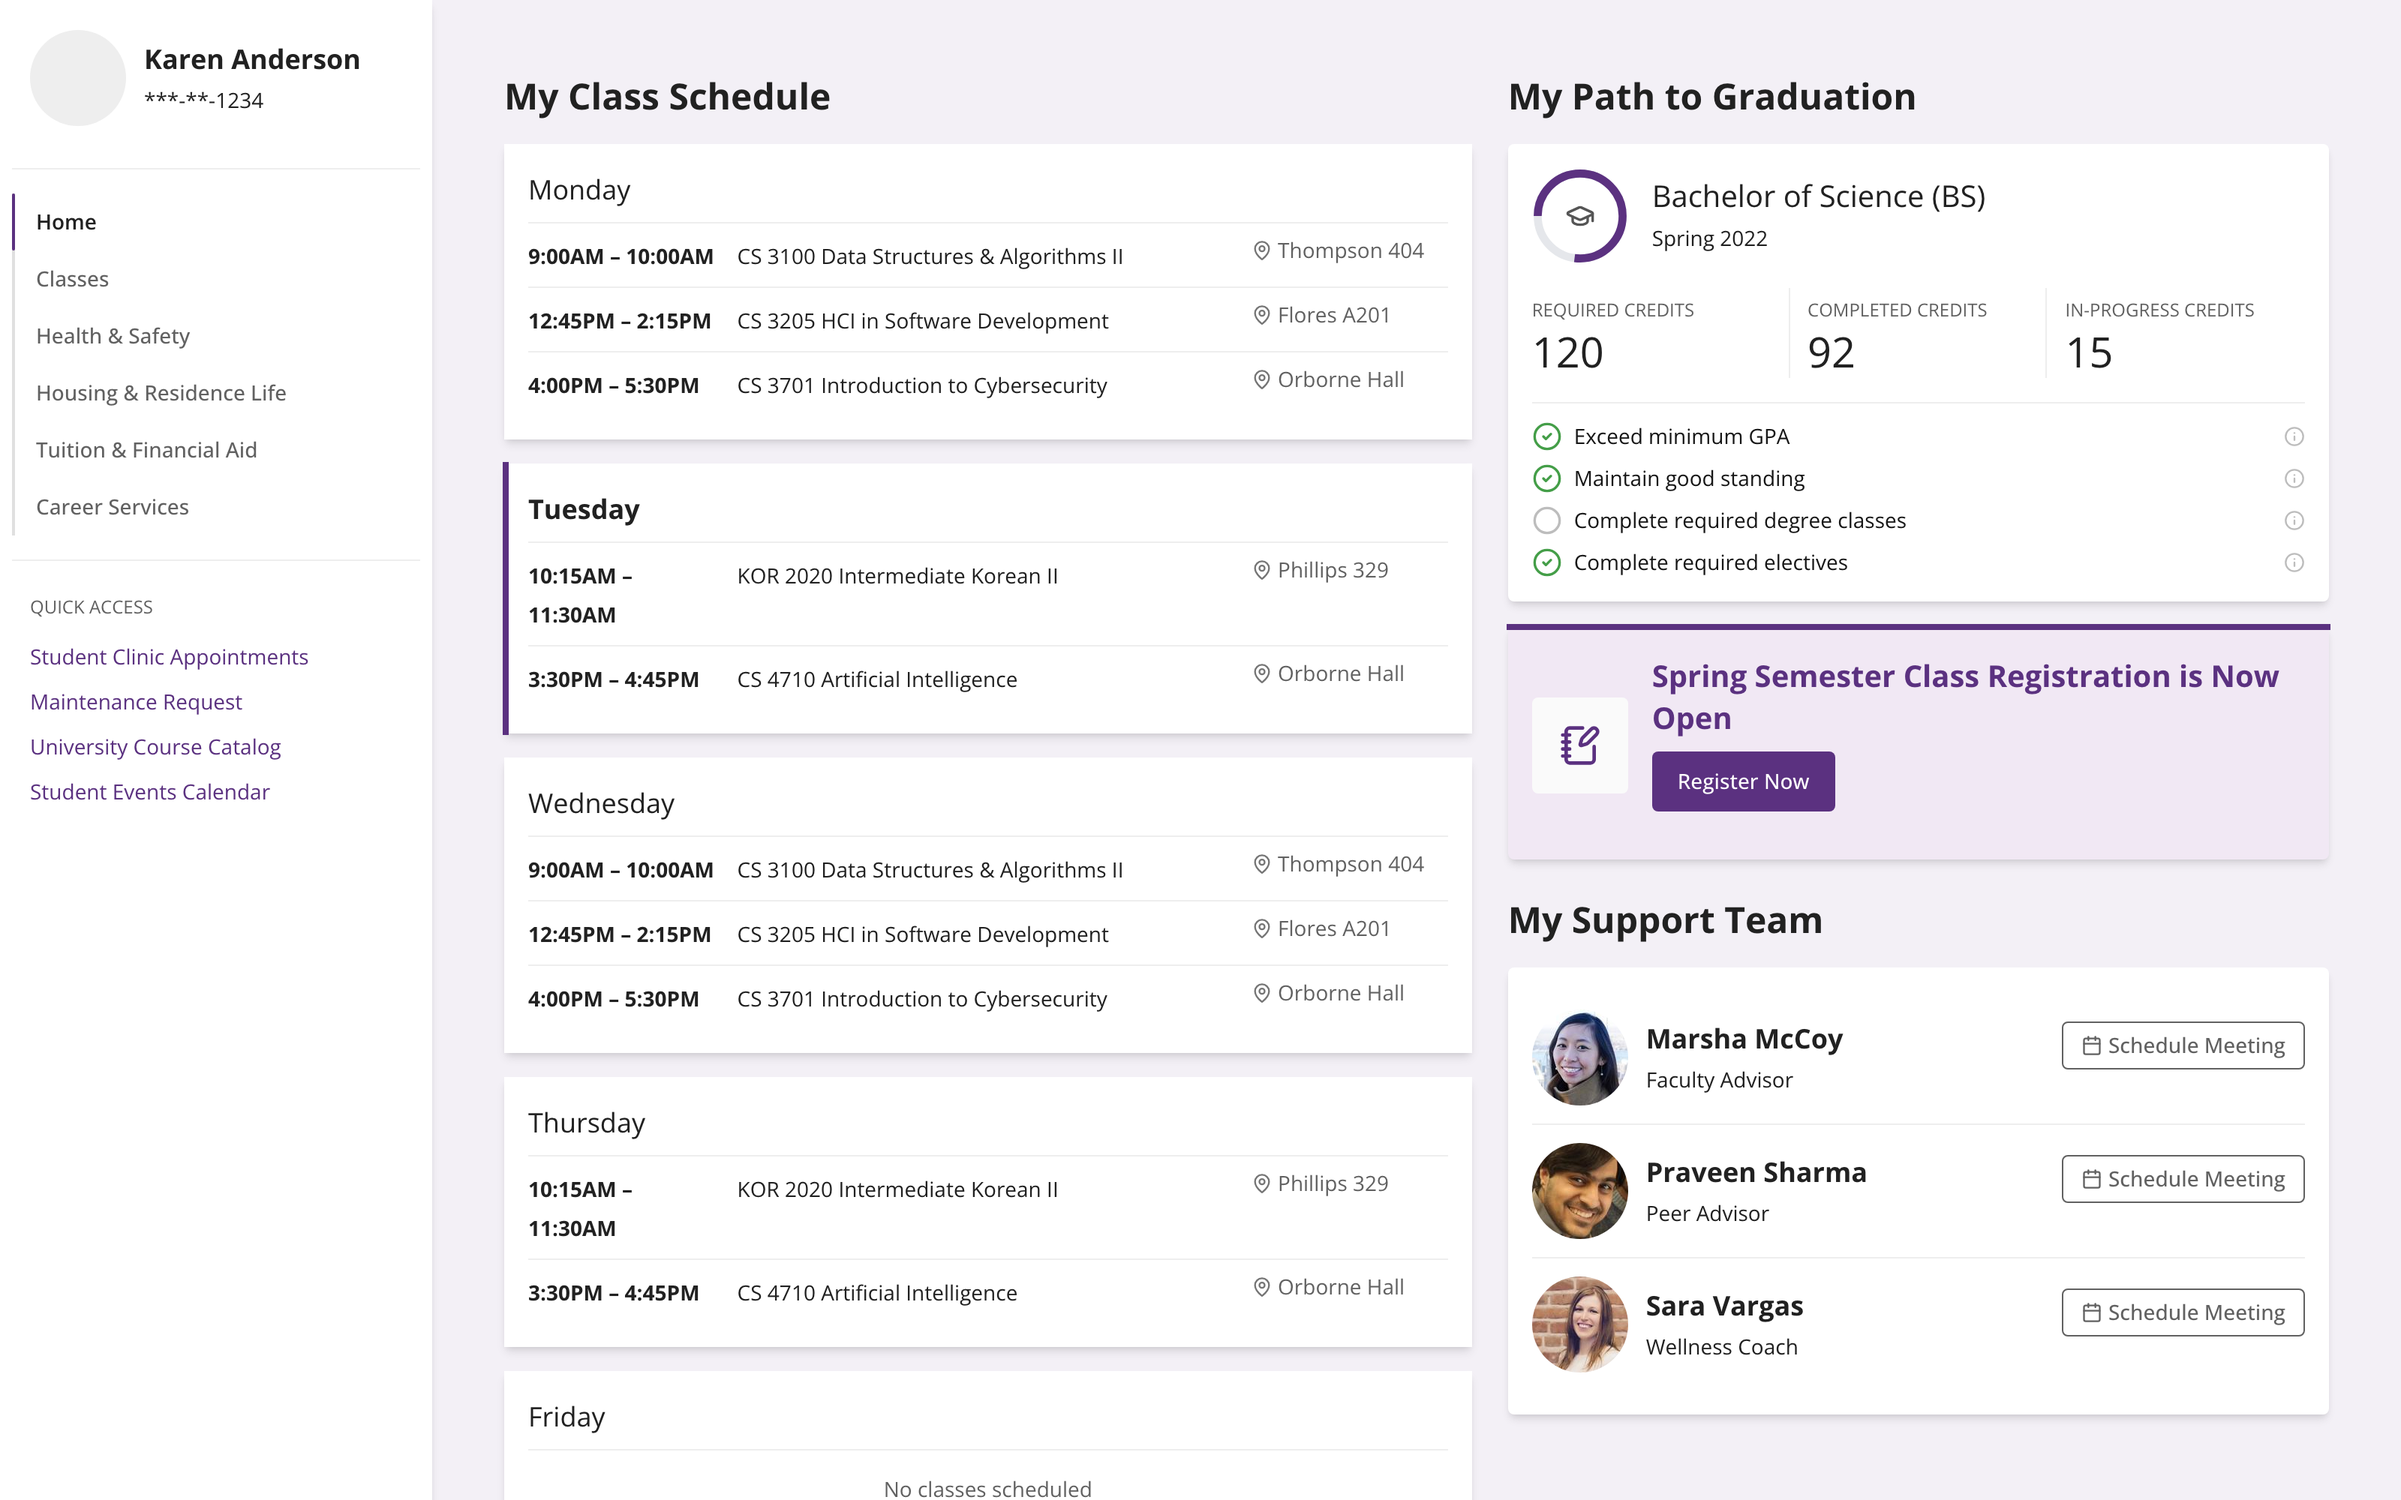
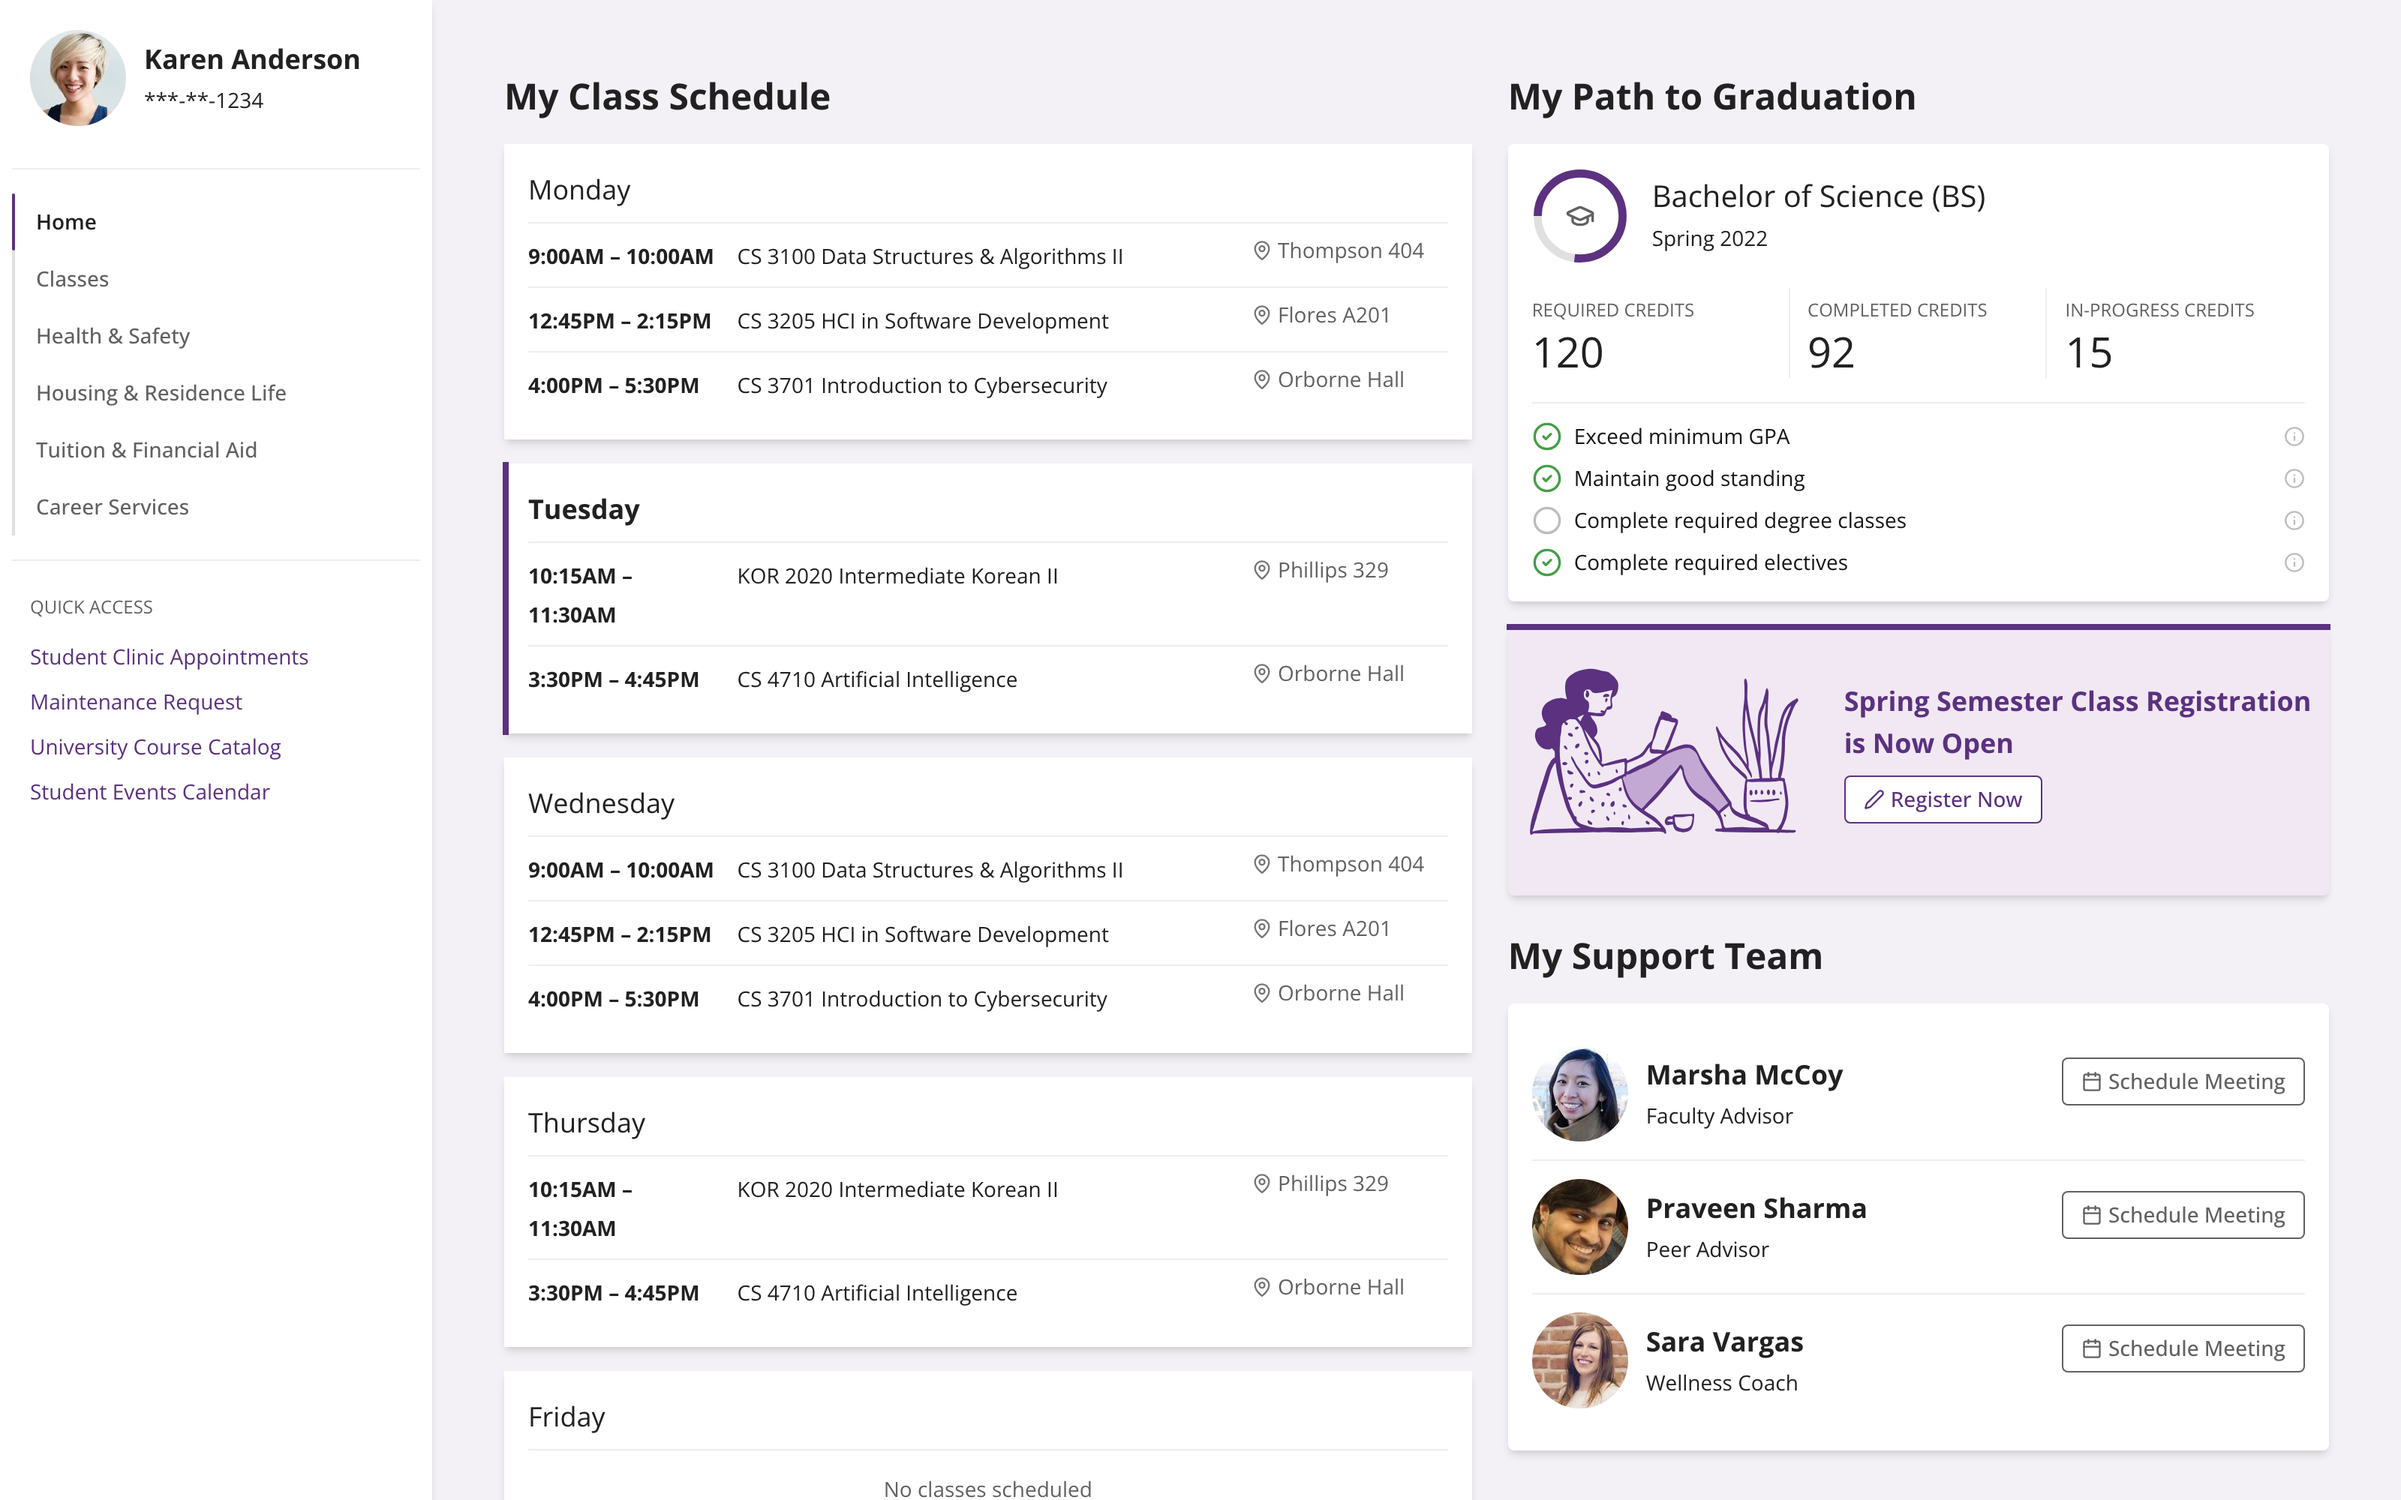
CR University Dashboard
- Add user avatar + illustration
- Use color palette for grays
- Extract custom brand colors as constants
- Restyle Registration card
- Use Tailwind classes instead of hex strokes

diff --git a/src/pages/university-dashboard.tsx b/src/pages/university-dashboard.tsx
@@ -7,7 +7,6 @@ import {
   ImageField,
   ButtonArrayLayout,
   TabsField,
-  StampField,
 } from '@pglevy/sailwind'
 import { GraduationCap, MapPin, CircleCheck, Circle, Info } from 'lucide-react'
 import {
@@ -20,6 +19,10 @@ import {
   type SupportTeamMember,
   type GraduationRequirement,
 } from '../db/university'
+
+// Custom brand colors for this page (not available as SAIL palette tokens)
+const PAGE_BACKGROUND = '#f3f0f6'
+const HIGHLIGHT_CARD_BACKGROUND = '#f1e8f4'
 
 export default function UniversityDashboard() {
   const [schedule, setSchedule] = useState<DaySchedule[]>([])
@@ -35,19 +38,16 @@ export default function UniversityDashboard() {
   }, [])
 
   return (
-    <div className="flex min-h-screen bg-[#f3f0f6]">
+    <div className="flex min-h-screen" style={{ backgroundColor: PAGE_BACKGROUND }}>
       {/* Left Sidebar */}
-      <div className="w-72 flex-shrink-0 bg-white shadow-md">
+      <div className="w-72 shrink-0 bg-white shadow-md">
         <CardLayout padding="LESS" showShadow={false} showBorder={false} style="NONE">
           {/* Profile Section */}
           <div className="border-b border-gray-200 px-3 py-3">
             <div className="flex items-center gap-3">
               <ImageField
-                label=""
                 labelPosition="COLLAPSED"
-                images={[
-                  { imageType: 'user' as const, user: { name: 'Karen Anderson', initials: 'KA' } },
-                ]}
+                images={[{ document: '/images/avatar-karen.jpg', altText: 'Karen Anderson' }]}
                 size="TINY"
                 style="AVATAR"
               />
@@ -82,7 +82,7 @@ export default function UniversityDashboard() {
               orientation="VERTICAL"
               variant="UNDERLINE"
               color="PURPLE_800"
-              className="[&_[role=tablist]]:w-full [&_button]:justify-start"
+              className="[&_button]:justify-start **:[[role=tablist]]:w-full"
               marginBelow="NONE"
             />
           </div>
@@ -117,7 +117,7 @@ export default function UniversityDashboard() {
 
       {/* Main Content */}
       <div className="flex-1 overflow-auto p-6">
-        <CardLayout padding="MORE" showBorder={false} style="#f3f0f6">
+        <CardLayout padding="MORE" showBorder={false} style={PAGE_BACKGROUND}>
           <div className="flex gap-6">
             {/* Class Schedule Column */}
             <div className="flex-1">
@@ -183,7 +183,7 @@ export default function UniversityDashboard() {
                             />
                           </div>
                           <div className="flex w-[22%] items-center gap-1">
-                            <MapPin size={14} className="flex-shrink-0 text-gray-600" />
+                            <MapPin size={14} className="shrink-0 text-gray-600" />
                             <span className="text-sm text-gray-700">{cls.location}</span>
                           </div>
                         </div>
@@ -215,24 +215,24 @@ export default function UniversityDashboard() {
                 {/* Gauge + Degree Info */}
                 <div className="mb-4 flex items-center gap-4">
                   {' '}
-                  <div className="relative h-16 w-16 flex-shrink-0">
+                  <div className="relative h-16 w-16 shrink-0">
                     <svg className="h-16 w-16 -rotate-90" viewBox="0 0 36 36">
                       <path
                         d="M18 2.0845 a 15.9155 15.9155 0 0 1 0 31.831 a 15.9155 15.9155 0 0 1 0 -31.831"
                         fill="none"
-                        stroke="#e5e7eb"
+                        className="stroke-gray-300"
                         strokeWidth="3"
                       />
                       <path
                         d="M18 2.0845 a 15.9155 15.9155 0 0 1 0 31.831 a 15.9155 15.9155 0 0 1 0 -31.831"
                         fill="none"
-                        stroke="#5B3180"
+                        className="stroke-purple-800"
                         strokeWidth="3"
                         strokeDasharray="77, 100"
                       />
                     </svg>
                     <div className="absolute inset-0 flex items-center justify-center">
-                      <GraduationCap size={20} className="text-[#555]" />
+                      <GraduationCap size={20} className="text-gray-700" />
                     </div>
                   </div>
                   <div>
@@ -321,12 +321,12 @@ export default function UniversityDashboard() {
                   {graduationRequirements.map((req) => (
                     <div key={req.id} className="flex items-center gap-2">
                       {req.done ? (
-                        <CircleCheck size={20} className="flex-shrink-0 text-green-600" />
+                        <CircleCheck size={20} className="shrink-0 text-green-600" />
                       ) : (
-                        <Circle size={20} className="flex-shrink-0 text-gray-400" />
+                        <Circle size={20} className="shrink-0 text-gray-400" />
                       )}
                       <span className="flex-1 text-sm">{req.label}</span>
-                      <Info size={14} className="flex-shrink-0 text-gray-400" />
+                      <Info size={14} className="shrink-0 text-gray-400" />
                     </div>
                   ))}
                 </div>
@@ -334,22 +334,28 @@ export default function UniversityDashboard() {
 
               {/* Registration Banner */}
               <CardLayout
-                padding="STANDARD"
+                padding="LESS"
                 showShadow={true}
                 showBorder={false}
-                style="#f1e8f4"
+                style={HIGHLIGHT_CARD_BACKGROUND}
                 marginBelow="MORE"
                 decorativeBarPosition="TOP"
                 decorativeBarColor="PURPLE_800"
               >
-                <div className="flex items-center gap-4">
-                  <StampField
-                    icon="notebook-pen"
-                    backgroundColor="GRAY_50"
-                    contentColor="PURPLE_800"
-                    size="LARGE"
-                    shape="SEMI_ROUNDED"
-                  />
+                <div className="flex items-center gap-6">
+                  <div className="w-48 shrink-0">
+                    <ImageField
+                      labelPosition="COLLAPSED"
+                      images={[
+                        {
+                          document: '/images/reading-side.svg',
+                          altText: 'Student reading illustration',
+                        },
+                      ]}
+                      size="FIT"
+                      isThumbnail={false}
+                    />
+                  </div>
                   <div>
                     <RichTextDisplayField
                       labelPosition="COLLAPSED"
@@ -358,7 +364,7 @@ export default function UniversityDashboard() {
                           key="reg"
                           text="Spring Semester Class Registration is Now Open"
                           color="PURPLE_800"
-                          size="MEDIUM_PLUS"
+                          size="MEDIUM"
                           style="STRONG"
                         />,
                       ]}
@@ -368,9 +374,9 @@ export default function UniversityDashboard() {
                       buttons={[
                         {
                           label: 'Register Now',
-                          icon: 'pen-fancy',
-                          size: 'STANDARD',
-                          style: 'SOLID',
+                          icon: 'pen',
+                          size: 'SMALL',
+                          style: 'OUTLINE',
                           color: 'PURPLE_800',
                         },
                       ]}
@@ -398,7 +404,7 @@ export default function UniversityDashboard() {
                     <img
                       src={member.avatarUrl}
                       alt={member.name}
-                      className="h-16 w-16 flex-shrink-0 rounded-full"
+                      className="h-16 w-16 shrink-0 rounded-full"
                     />
                     <div className="flex-1">
                       <RichTextDisplayField

diff --git a/src/db/users.ts b/src/db/users.ts
@@ -16,7 +16,7 @@ export interface MockUser {
 }
 
 export const mockUsers: MockUser[] = [
-  { username: 'karen.anderson', displayName: 'Karen Anderson', initials: 'KA', avatarUrl: '' },
+  { username: 'karen.anderson', displayName: 'Karen Anderson', initials: 'KA', avatarUrl: '/images/avatar-karen.jpg' },
   {
     username: 'marsha.mccoy',
     displayName: 'Marsha McCoy',
